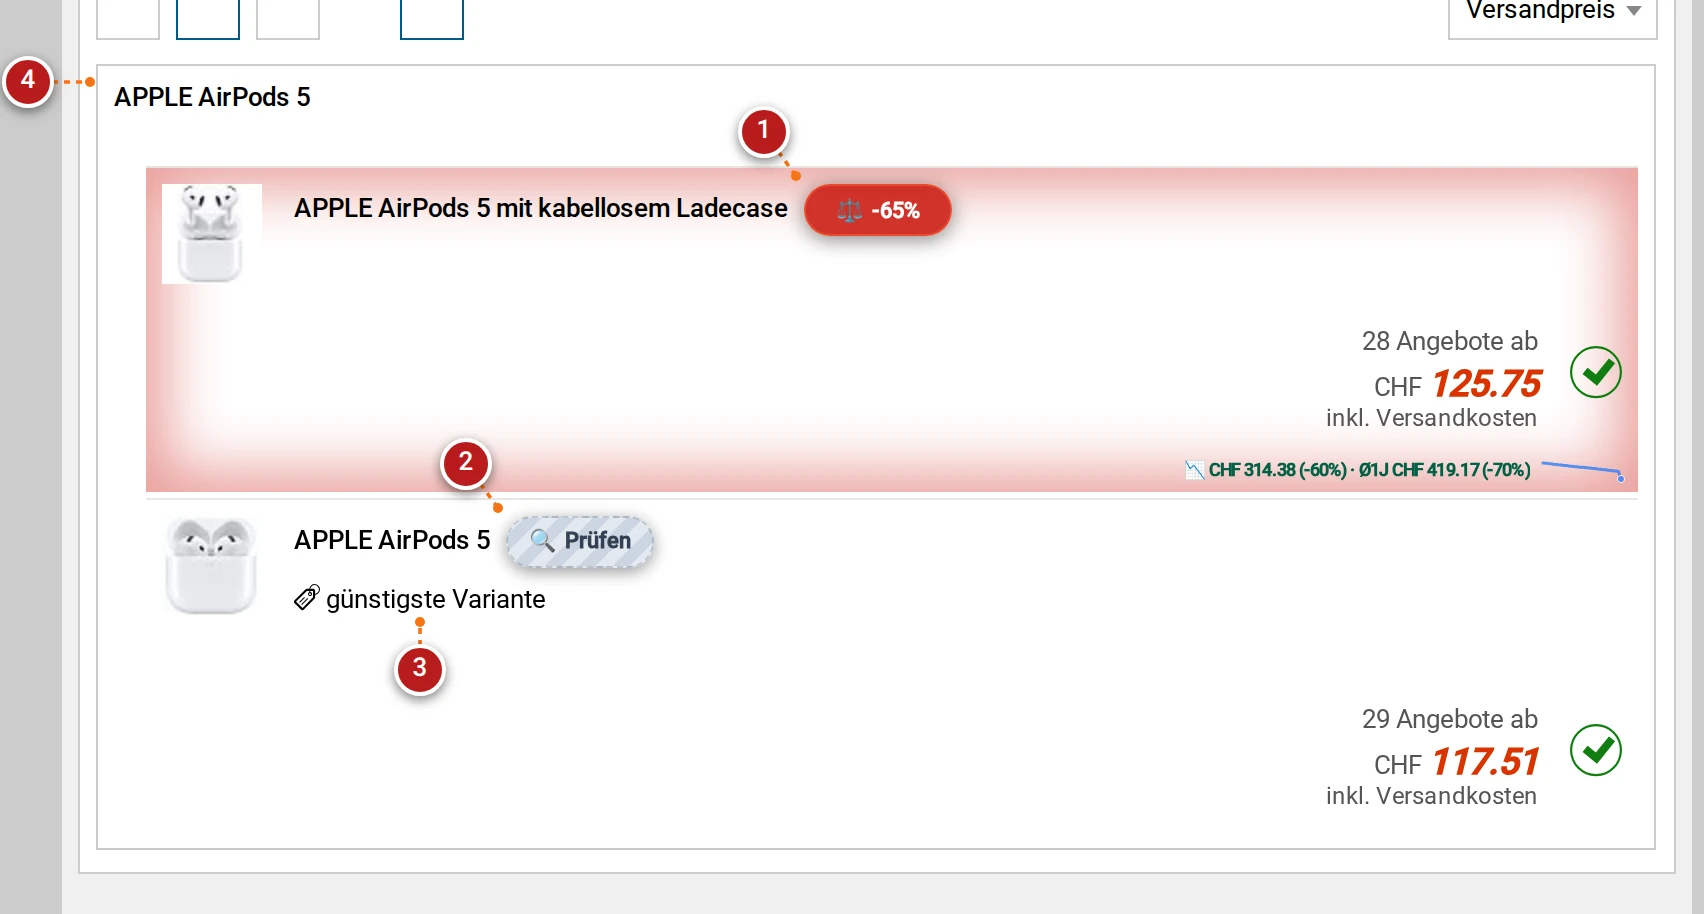
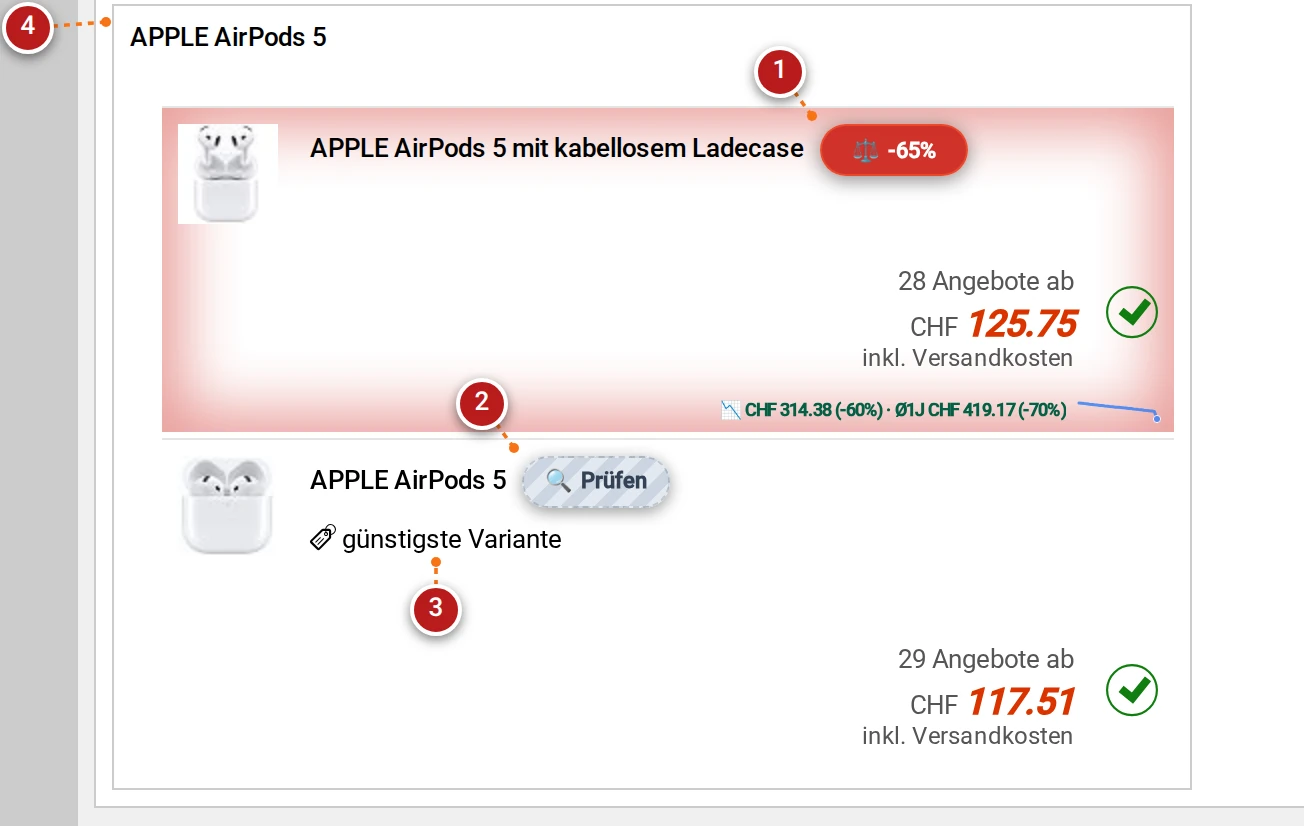
docs: align callouts 2-6 on left side for 01a and 01b, fix min-offers space, and clean artifacts

diff --git a/toppreise/toppreise.user.js b/toppreise/toppreise.user.js
@@ -1,7 +1,7 @@
 // ==UserScript==
 // @name         Toppreise.ch Suite: Power Filter & Price Alarm Auto-Filler
 // @namespace    https://github.com/tazztone/userscripts
-// @version      2.18.335
+// @version      2.18.336
 // @description  All-in-one suite for Toppreise.ch: Highlights best prices, discount heatmap, excludes negative keywords, sorts/filters by offer count/discount, checks real all-time Tiefstpreise, and automates price alarms.
 // @author       tazztone
 // @match        https://www.toppreise.ch/*
@@ -1184,13 +1184,14 @@ const STYLES_OVERLAYS = `
   }
   .tp-row-inactive { opacity: .55 !important; }
   .tp-row-inactive button:disabled { cursor: not-allowed !important; }
+  .tp-row-inactive #tp-bar-min-offers-group { display: none !important; }
   .tp-filter-note {
     font-size: var(--tp-fs-xs) !important;
     color: var(--tp-mut) !important;
     white-space: nowrap !important;
     overflow: hidden !important;
     text-overflow: ellipsis !important;
-    max-width: 155px !important;
+    flex: 1 1 auto !important;
   }
   .tp-filter-mode-btn.tp-active {
     background: var(--tp-acc-soft) !important;
@@ -9061,7 +9062,9 @@ const SHADOW_MODAL_STYLES = `
     if (minRow) {
       minRow.classList.toggle('tp-row-inactive', !pageHasOffers);
       const note = minRow.querySelector('[data-min-note]');
+      const stepper = minRow.querySelector('#tp-bar-min-offers-group');
       if (note) setTextIfChanged(note, pageHasOffers ? '' : 'inaktiv – keine Angebote auf Seite');
+      if (stepper) stepper.style.display = pageHasOffers ? 'inline-flex' : 'none';
       minRow.querySelectorAll('button').forEach(btn => { btn.disabled = !pageHasOffers; });
     }
 
@@ -10225,7 +10228,7 @@ const log = (...args) => { if (CONFIG.DEBUG) console.log('[Toppreise-Suite]', ..
   triggerProcessListings();
 
   if (typeof window !== 'undefined') {
-    const suiteVersion = (typeof GM_info !== 'undefined' && GM_info?.script?.version) || '2.18.335';
+    const suiteVersion = (typeof GM_info !== 'undefined' && GM_info?.script?.version) || '2.18.336';
     const isDebugHost = CONFIG.DEBUG === true || (typeof location !== 'undefined' && /^(localhost|127\.0\.0\.1)$/.test(location.hostname || ''));
     if (isDebugHost) {
       window.ToppreiseSuite = {

diff --git a/toppreise/docs/shots/index.html b/toppreise/docs/shots/index.html
@@ -125,7 +125,7 @@
 <body>
 <header>
   <h1>Toppreise.ch Suite — Screenshot Gallery</h1>
-  <div class="timestamp">Generiert: 2026-10-18 14:03:58 UTC</div>
+  <div class="timestamp">Generiert: 2026-10-18 14:33:53 UTC</div>
 </header>
 <main class="gallery-grid">
   
@@ -146,7 +146,7 @@
                   <tr><th>#</th><th>Element / Beschreibung</th></tr>
                 </thead>
                 <tbody>
-                  <tr><td class='num'>1</td><td class='cap'>Filter-Button (Verbergen, Dimmen oder Hervorheben je Ursache)</td></tr><tr><td class='num'>2</td><td class='cap'>Negativ-Filter (Ausschluss nach Stichwort mit Wortgrenzen)</td></tr><tr><td class='num'>3</td><td class='cap'>Min-Angebote Stepper (Marktplatz-Filter; nur auf Seiten mit Händlerzeilen aktiv)</td></tr><tr><td class='num'>4</td><td class='cap'>Ungeprüfte Angebote (Angebote ohne Historie verbergen/dimmen)</td></tr><tr><td class='num'>5</td><td class='cap'>Fallback-Tiefs ein-/ausschliessen (geringe Historie)</td></tr><tr><td class='num'>6</td><td class='cap'>Min-Rabatt Stepper (Angebote unter X% Rabatt filtern)</td></tr><tr><td class='num'>7</td><td class='cap'>Tiefstpreise prüfen (1-Klick Batch-Scanner)</td></tr>
+                  <tr><td class='num'>1</td><td class='cap'>Filter-Button (Verbergen, Dimmen oder Hervorheben je Ursache)</td></tr><tr><td class='num'>2</td><td class='cap'>Negativ-Filter (Ausschluss nach Stichwort mit Wortgrenzen)</td></tr><tr><td class='num'>3</td><td class='cap'>Min-Angebote (Marktplatz-Filter; nur auf Seiten mit Händlerzeilen aktiv)</td></tr><tr><td class='num'>4</td><td class='cap'>Ungeprüfte Angebote (Angebote ohne Historie verbergen/dimmen)</td></tr><tr><td class='num'>5</td><td class='cap'>Fallback-Tiefs ein-/ausschliessen (geringe Historie)</td></tr><tr><td class='num'>6</td><td class='cap'>Min-Rabatt Stepper (Angebote unter X% Rabatt filtern)</td></tr><tr><td class='num'>7</td><td class='cap'>Tiefstpreise prüfen (1-Klick Batch-Scanner)</td></tr>
                 </tbody>
               </table>
             </div>

diff --git a/toppreise/src/app.js b/toppreise/src/app.js
@@ -55,7 +55,7 @@ import { processProductDetailPage } from './features/product-detail.js';
 // ==UserScript==
 // @name         Toppreise.ch Suite: Power Filter & Price Alarm Auto-Filler
 // @namespace    https://github.com/tazztone/userscripts
-// @version      2.18.335
+// @version      2.18.336
 // @description  All-in-one suite for Toppreise.ch: Highlights best prices, discount heatmap, excludes negative keywords, sorts/filters by offer count/discount, checks real all-time Tiefstpreise, and automates price alarms.
 // @author       tazztone
 // @match        https://www.toppreise.ch/*
@@ -298,7 +298,7 @@ import { processProductDetailPage } from './features/product-detail.js';
   triggerProcessListings();
 
   if (typeof window !== 'undefined') {
-    const suiteVersion = (typeof GM_info !== 'undefined' && GM_info?.script?.version) || '2.18.335';
+    const suiteVersion = (typeof GM_info !== 'undefined' && GM_info?.script?.version) || '2.18.336';
     const isDebugHost = CONFIG.DEBUG === true || (typeof location !== 'undefined' && /^(localhost|127\.0\.0\.1)$/.test(location.hostname || ''));
     if (isDebugHost) {
       window.ToppreiseSuite = {

diff --git a/toppreise/src/ui/styles/overlays.js b/toppreise/src/ui/styles/overlays.js
@@ -75,13 +75,14 @@ export const STYLES_OVERLAYS = `
   }
   .tp-row-inactive { opacity: .55 !important; }
   .tp-row-inactive button:disabled { cursor: not-allowed !important; }
+  .tp-row-inactive #tp-bar-min-offers-group { display: none !important; }
   .tp-filter-note {
     font-size: var(--tp-fs-xs) !important;
     color: var(--tp-mut) !important;
     white-space: nowrap !important;
     overflow: hidden !important;
     text-overflow: ellipsis !important;
-    max-width: 155px !important;
+    flex: 1 1 auto !important;
   }
   .tp-filter-mode-btn.tp-active {
     background: var(--tp-acc-soft) !important;

diff --git a/toppreise/src/ui/toolbar-filter.js b/toppreise/src/ui/toolbar-filter.js
@@ -208,7 +208,9 @@ export function syncFilterRow(bar, counts, flags) {
   if (minRow) {
     minRow.classList.toggle('tp-row-inactive', !pageHasOffers);
     const note = minRow.querySelector('[data-min-note]');
+    const stepper = minRow.querySelector('#tp-bar-min-offers-group');
     if (note) setTextIfChanged(note, pageHasOffers ? '' : 'inaktiv – keine Angebote auf Seite');
+    if (stepper) stepper.style.display = pageHasOffers ? 'inline-flex' : 'none';
     minRow.querySelectorAll('button').forEach(btn => { btn.disabled = !pageHasOffers; });
   }
 

diff --git a/toppreise/tools/refresh-screenshot.py b/toppreise/tools/refresh-screenshot.py
@@ -364,57 +364,53 @@ def render_annotated(annotator_page, raw_bytes, origin, callouts, out_path):
 
 
 def setup_toolbar(page, pids):
-    """Shot 01a: Sticky toolbar filter popover and batch scanner, tightly cropped to filter controls."""
+    """Shot 01a: Sticky toolbar filter popover and batch scanner, cleanly focused on filter controls."""
     page.evaluate("window.scrollTo(0, 0)")
     page.evaluate("""() => {
-        document.body.style.paddingLeft = '48px';
+        document.body.style.paddingLeft = '80px';
         document.getElementById('tp-bar-filter-popover')?.classList.add('tp-show');
-        // Hide breadcrumbs, header, categories list, sidebar, alerts, and hints
-        document.querySelectorAll('.Plugin_MainTopHead, .Plugin_GeneralBreadcrumb, .breadcrumb, #breadcrumb, .Plugin_TimePeriod, .f_Plugin_Filter_TimePeriod, .filterBoxContainer, .sidebarWrapper, .tpContentSidebar, .sidebar, .Plugin_IgnoredCategoriesHint, .Plugin_Hint, .alert').forEach(el => el.style.display = 'none');
-        // Isolate top row of cards so trailing rows do not get partially cut off
-        document.querySelectorAll('.mixedBrowsingListProduct:nth-of-type(n+4), .Plugin_Product:nth-of-type(n+4)').forEach(el => el.style.display = 'none');
-        // Position floating CTA right below the filter popover
+        // Cleanly hide background cards and host page noise
+        document.querySelectorAll('.Plugin_MainTopHead, .Plugin_GeneralBreadcrumb, .breadcrumb, #breadcrumb, .Plugin_TimePeriod, .f_Plugin_Filter_TimePeriod, .filterBoxContainer, .sidebarWrapper, .tpContentSidebar, .sidebar, .Plugin_IgnoredCategoriesHint, .Plugin_Hint, .alert, .mainContent, #pageContent, .mixedBrowsingListProduct, .Plugin_Product, .Plugin_CategoryList, [class*="Breadcrumb"], [class*="Hint"]').forEach(el => el.style.setProperty('display', 'none', 'important'));
+        // Hide right-hand toolbar groups so 01a focuses strictly on filter button and popover
+        document.querySelectorAll('.tp-group-view, .tp-group-deals, .tp-divider').forEach(el => el.style.setProperty('display', 'none', 'important'));
+        // Position floating CTA right below the filter popover with a clean gap
         const cta = document.getElementById('tp-floating-check-cta');
-        if (cta) {
+        const pop = document.getElementById('tp-bar-filter-popover');
+        if (cta && pop) {
+            const popRect = pop.getBoundingClientRect();
+            cta.style.position = 'absolute';
             cta.style.bottom = 'auto';
-            cta.style.top = '390px';
-            cta.style.left = '48px';
+            cta.style.top = (popRect.bottom + 24) + 'px';
+            cta.style.left = popRect.left + 'px';
             cta.style.right = 'auto';
             cta.style.width = 'max-content';
         }
     }""")
     page.wait_for_timeout(400)
 
-    tb_box = css_box(page, "#tp-suite-filter-bar")
+    btn_box = css_box(page, "#tp-bar-filter-btn")
     pop_box = css_box(page, "#tp-bar-filter-popover")
     cta_box = try_box(page, "#tp-floating-check-btn") or try_box(page, "#tp-floating-check-cta")
 
-    x0 = max(0, tb_box["x"] - 20)
-    x1 = pop_box["x"] + pop_box["width"] + 24
-    y0 = max(0, tb_box["y"] - 16)
-    y1 = (cta_box["y"] + cta_box["height"] + 28) if cta_box else (pop_box["y"] + pop_box["height"] + 28)
-
-    clip = {
-        "x": x0,
-        "y": y0,
-        "width": x1 - x0,
-        "height": y1 - y0,
-    }
+    boxes = [btn_box, pop_box]
+    if cta_box:
+        boxes.append(cta_box)
+    clip = union(boxes, pad=64)
 
     raw_bytes = page.screenshot(clip=clip)
     controls = [
-        ("#tp-bar-filter-btn", "Filter-Button (Verbergen, Dimmen oder Hervorheben je Ursache)", [-40, 16]),
-        ("#tp-inline-negative-input", "Negativ-Filter (Ausschluss nach Stichwort mit Wortgrenzen)", [-48, 0]),
-        ("[data-filter-row='min']", "Min-Angebote Stepper (Marktplatz-Filter; nur auf Seiten mit Händlerzeilen aktiv)", [-48, 0]),
-        ("[data-filter-row='unchecked']", "Ungeprüfte Angebote (Angebote ohne Historie verbergen/dimmen)", [-48, 0]),
-        ("[data-filter-row='vortief']", "Fallback-Tiefs ein-/ausschliessen (geringe Historie)", [-48, 0]),
-        ("[data-filter-row='deal-disc']", "Min-Rabatt Stepper (Angebote unter X% Rabatt filtern)", [-48, 0]),
-        ("#tp-floating-check-btn", "Tiefstpreise prüfen (1-Klick Batch-Scanner)", [-44, 0]),
+        ("#tp-bar-filter-btn", "Filter-Button (Verbergen, Dimmen oder Hervorheben je Ursache)", "outside-top"),
+        ("[data-filter-row='neg'] .tp-filter-label", "Negativ-Filter (Ausschluss nach Stichwort mit Wortgrenzen)", "outside-left"),
+        ("[data-filter-row='min'] .tp-filter-label", "Min-Angebote (Marktplatz-Filter; nur auf Seiten mit Händlerzeilen aktiv)", "outside-left"),
+        ("[data-filter-row='unchecked'] .tp-filter-label", "Ungeprüfte Angebote (Angebote ohne Historie verbergen/dimmen)", "outside-left"),
+        ("[data-filter-row='vortief'] .tp-filter-label", "Fallback-Tiefs ein-/ausschliessen (geringe Historie)", "outside-left"),
+        ("[data-filter-row='deal-disc'] .tp-filter-label", "Min-Rabatt Stepper (Angebote unter X% Rabatt filtern)", "outside-left"),
+        ("#tp-floating-check-btn", "Tiefstpreise prüfen (1-Klick Batch-Scanner)", "outside-left"),
     ]
     callouts = []
     for item in controls:
         sel, cap = item[0], item[1]
-        anchor = item[2] if len(item) > 2 else "top-left"
+        anchor = item[2] if len(item) > 2 else "outside-left"
         box = try_box(page, sel)
         if box is None:
             continue
@@ -426,8 +422,11 @@ def setup_calc_popover(page, pids):
     """Shot 01b: Calculation popover featuring live glitch preview chart and mathematical parameters."""
     page.evaluate("window.scrollTo(0, 0)")
     page.evaluate("""() => {
-        document.body.style.paddingLeft = '60px';
-        document.querySelectorAll('.mainContent, .leftColumn, #pageContent, .mainTopHeadContentWrapper, .mixedBrowsingListProduct, .Plugin_Product, .Plugin_IgnoredCategoriesHint, .Plugin_Hint, .alert').forEach(el => el.style.opacity = '0');
+        document.body.style.paddingLeft = '80px';
+        // Cleanly hide all background page content and categories
+        document.querySelectorAll('.mainContent, .leftColumn, #pageContent, .mainTopHeadContentWrapper, .mixedBrowsingListProduct, .Plugin_Product, .Plugin_IgnoredCategoriesHint, .Plugin_Hint, .alert, .tpContentSidebar, .sidebarWrapper, .sidebar, .Plugin_CategoryList').forEach(el => el.style.setProperty('display', 'none', 'important'));
+        // Hide toolbar buttons except calc button so no partial buttons are visible
+        document.querySelectorAll('#tp-suite-filter-bar .tp-group:not(.tp-group-deals), #tp-suite-filter-bar .tp-divider, #tp-bar-bestpreise-btn').forEach(el => el.style.setProperty('display', 'none', 'important'));
     }""")
     page.locator("#tp-bar-calc-btn").click()
     page.wait_for_selector("#tp-bar-calc-popover.tp-show", timeout=10000)
@@ -443,18 +442,19 @@ def setup_calc_popover(page, pids):
     }""")
     page.wait_for_timeout(400)
 
+    wrap_box = css_box(page, "#tp-bar-calc-wrap")
     pop_box = css_box(page, "#tp-bar-calc-popover")
-    clip = union([pop_box], pad=56)
+    clip = union([wrap_box, pop_box], pad=64)
     raw_bytes = page.screenshot(clip=clip)
 
     controls = [
-        ("#tp-bar-weight-wrapper", "Gewichtung Median / Rekord (Schieberegler für Deal-Score)", [-50, 0]),
-        ("#tp-bar-horizon-wrapper", "Ø-Zeitraum (Rolling Median von 30 bis 730 Tagen oder Lifetime)", "outside-right"),
-        ("#tp-bar-minpoints-wrapper", "Mindestpunkte (erforderliche Datenpunkte für qualifizierten Ø-Vergleich)", [-50, 0]),
-        ("#tp-bar-outlier-wrapper", "Ausreisser filtern (Aktiviert automatische Glitch-Erkennung)", "outside-right"),
-        ("#tp-bar-outlier-band-wrapper", "Glitch-Band (Toleranzband um den Median in ±%)", [-50, 0]),
-        ("#tp-bar-outlier-hours-wrapper", "Glitch-Fenster (Maximale Glitch-Dauer in Stunden)", "outside-right"),
-        ("#tp-calc-preview svg", "Glitch-Vorschau (Live-Chart mit Ø-Preis, Rekord, Glitch-Band & roten ✕ Glitches)", [-50, 20]),
+        ("#tp-bar-weight-wrapper", "Gewichtung Median / Rekord (Schieberegler für Deal-Score)", "outside-left"),
+        ("#tp-bar-horizon-wrapper", "Ø-Zeitraum (Rolling Median von 30 bis 730 Tagen oder Lifetime)", "outside-left"),
+        ("#tp-bar-minpoints-wrapper", "Mindestpunkte (erforderliche Datenpunkte für qualifizierten Ø-Vergleich)", "outside-left"),
+        ("#tp-bar-outlier-wrapper", "Ausreisser filtern (Aktiviert automatische Glitch-Erkennung)", "outside-left"),
+        ("#tp-bar-outlier-band-wrapper", "Glitch-Band (Toleranzband um den Median in ±%)", "outside-left"),
+        ("#tp-bar-outlier-hours-wrapper", "Glitch-Fenster (Maximale Glitch-Dauer in Stunden)", "outside-left"),
+        ("#tp-calc-preview svg", "Glitch-Vorschau (Live-Chart mit Ø-Preis, Rekord, Glitch-Band & roten ✕ Glitches)", [-54, 20]),
     ]
     callouts = []
     for item in controls:
@@ -517,14 +517,14 @@ def setup_feed_cards(page, pids):
     callouts = [
         (1, css_box(page, "#tp-bar-heat-btn"), "Heatmap-Umschalter (Farbe folgt der Rabatt-Tiefe)", "outside-top"),
         (2, css_box(page, "#tp-bar-bestpreise-btn"), "💎 Tiefstpreis-Sortierung (nach gewichtetem Deal-Score)", "outside-top"),
-        (3, css_box(page, f"{deep} .badge-dif"), "Single-Hue Deal-Heatmap (Gewichteter Deal-Score; tiefrot = neuer Rekord-Tiefstpreis)", [-36, 16]),
-        (4, css_box(page, f"{markup} .badge-dif"), "Schein-Rabatt entlarvt (Preiserhöhung statt Ersparnis; echter Aufschlag in Schiefer/Bernstein)", [-36, 16]),
-        (5, css_box(page, f"{fallback} .badge-dif"), "Fallback-Tief (Vortief-Vergleich bei wenigen Datenpunkten, dezent hervorgehoben)", [36, 16]),
-        (6, css_box(page, f"{deep} > .tp-share-btn"), "Discord 1-Klick Share-Button (erscheint bei Hover zum Teilen via Webhook)", [-48, 12]),
-        (7, css_box(page, f"{deep} .tp-card-subline-row"), "Transparente Deal-Subline (Vortief-Abstand in % · 1-Jahres-Ø mit Abstand in %)", [-48, 16]),
-        (8, css_box(page, f"{deep} .tp-dealer-name"), "Günstigster Händler (Direktlink zum Angebot ohne Zwischenhändler)", [-54, 0]),
+        (3, css_box(page, f"{deep} .badge-dif"), "Single-Hue Deal-Heatmap (Gewichteter Deal-Score; tiefrot = neuer Rekord-Tiefstpreis)", [48, 12]),
+        (4, css_box(page, f"{markup} .badge-dif"), "Schein-Rabatt entlarvt (Preiserhöhung statt Ersparnis; echter Aufschlag in Schiefer/Bernstein)", [48, 12]),
+        (5, css_box(page, f"{fallback} .badge-dif"), "Fallback-Tief (Vortief-Vergleich bei wenigen Datenpunkten, dezent hervorgehoben)", [48, 12]),
+        (6, css_box(page, f"{deep} > .tp-share-btn"), "Discord 1-Klick Share-Button (erscheint bei Hover zum Teilen via Webhook)", "outside-left"),
+        (7, css_box(page, f"{deep} .tp-card-subline-row"), "Transparente Deal-Subline (Vortief-Abstand in % · 1-Jahres-Ø mit Abstand in %)", [20, 24]),
+        (8, css_box(page, f"{deep} .tp-dealer-name .tp-dealer-icon"), "Günstigster Händler (Direktlink zum Angebot ohne Zwischenhändler)", [-44, 0]),
         (9, css_box(page, f"{deep} .tp-sparkline-container svg"), "Mini-Trend Sparkline (Kompakter 30-Tage-Preistrend; Klick öffnet Detail-Chart)", [48, 0]),
-        (10, css_box(page, f"{deep} .tp-review-search-btn"), "1-Klick Review-Suche (🌐 erscheint bei Hover für direkte Google-Testberichtsuche)", [40, -18]),
+        (10, css_box(page, f"{deep} .tp-review-search-btn"), "1-Klick Review-Suche (🌐 erscheint bei Hover für direkte Google-Testberichtsuche)", [-36, -22]),
     ]
     return raw_bytes, {"x": clip["x"], "y": clip["y"]}, callouts, "02-feed-cards.webp"
 
@@ -533,7 +533,7 @@ def setup_search_cards(page, pids):
     """Shot 03: Search catalog listing highlighting variant protection and inline verification pills."""
     page.evaluate("""() => {
         document.body.style.paddingLeft = '50px';
-        document.querySelectorAll('.Plugin_PriceSwitch, .f_Plugin_PriceSwitch, .Plugin_Sort, .f_Plugin_Sort, .filterBoxContainer, .breadcrumb, #breadcrumb, .Plugin_MainTopHead').forEach(el => el.style.display = 'none');
+        document.querySelectorAll('.Plugin_PriceSwitch, .f_Plugin_PriceSwitch, .Plugin_Sort, .f_Plugin_Sort, .filterBoxContainer, .breadcrumb, #breadcrumb, .Plugin_MainTopHead, [class*="ViewSwitch"], .top_content_wrapper, .Plugin_TopHead, .Plugin_CategoryList, .Plugin_CollItemHead').forEach(el => el.remove());
     }""")
     page.wait_for_timeout(200)
 
@@ -542,14 +542,17 @@ def setup_search_cards(page, pids):
 
     # Isolate the AirPods block: remove following and preceding items, sidebar, and pagination
     page.evaluate("""() => {
-        document.querySelectorAll('.Plugin_ProductCollItem ~ .Plugin_ProductCollItem, .Plugin_ProductCollItem ~ .Plugin_Product, .tpContentSidebar, .sidebarWrapper, .filterBoxContainer, .sidebar, .pagination, .Plugin_Pagination, .f_Plugin_Pagination, .Plugin_PriceSwitch').forEach(el => el.remove());
+        document.querySelectorAll('.Plugin_ProductCollItem ~ .Plugin_ProductCollItem, .Plugin_ProductCollItem ~ .Plugin_Product, .tpContentSidebar, .sidebarWrapper, .filterBoxContainer, .sidebar, .pagination, .Plugin_Pagination, .f_Plugin_Pagination, .Plugin_PriceSwitch, .f_Plugin_PriceSwitch').forEach(el => el.remove());
         let prev = document.querySelector('.Plugin_ProductCollItem')?.previousElementSibling;
         while (prev) {
-            prev.style.display = 'none';
-            prev = prev.previousElementSibling;
+            prev.remove();
+            prev = document.querySelector('.Plugin_ProductCollItem')?.previousElementSibling;
         }
         const coll = document.querySelector('.Plugin_ProductCollItem');
-        if (coll) coll.style.maxWidth = '780px';
+        if (coll) {
+            coll.style.maxWidth = '540px';
+            coll.style.margin = '0';
+        }
         // Wrap the günstigste Variante text inside a span so its bounding box tightly fits the label (not 440px container)
         const el = Array.from(document.querySelectorAll('.Plugin_ProductCollItem div')).find(d => d.textContent.includes('günstigste Variante') && !d.querySelector('div'));
         if (el) {
@@ -586,10 +589,10 @@ def setup_search_cards(page, pids):
 
     b_box = block.bounding_box()
     clip = {
-        "x": max(0, b_box["x"] - 48),
-        "y": max(0, b_box["y"] - 32),
-        "width": min(880, b_box["width"] + 72),
-        "height": b_box["height"] + 64,
+        "x": max(0, b_box["x"] - 56),
+        "y": max(0, b_box["y"] - 2),
+        "width": b_box["width"] + 112,
+        "height": b_box["height"] + 20,
     }
     raw_bytes = page.screenshot(clip=clip)
     origin = {"x": clip["x"], "y": clip["y"]}

diff --git a/toppreise/README.md b/toppreise/README.md
@@ -32,7 +32,7 @@ Requires a userscript manager browser extension:
 - [Violentmonkey](https://violentmonkey.github.io/) (recommended: [Firefox](https://addons.mozilla.org/en-US/firefox/addon/violentmonkey/) · [Chrome / Brave](https://chromewebstore.google.com/detail/violentmonkey/jinjaccalgkegednnccohejagnlnfdag))
 - [Tampermonkey](https://www.tampermonkey.net/)
 
-### 👉 [**CLICK HERE TO INSTALL USERSCRIPT (v2.18.335)**](https://raw.githubusercontent.com/tazztone/userscripts/main/toppreise/toppreise.user.js)
+### 👉 [**CLICK HERE TO INSTALL USERSCRIPT (v2.18.336)**](https://raw.githubusercontent.com/tazztone/userscripts/main/toppreise/toppreise.user.js)
 
 > [!NOTE]
 > The userscript includes embedded `@updateURL` and `@downloadURL` metadata headers. Your userscript manager will automatically check GitHub in the background and keep your installation up to date.
